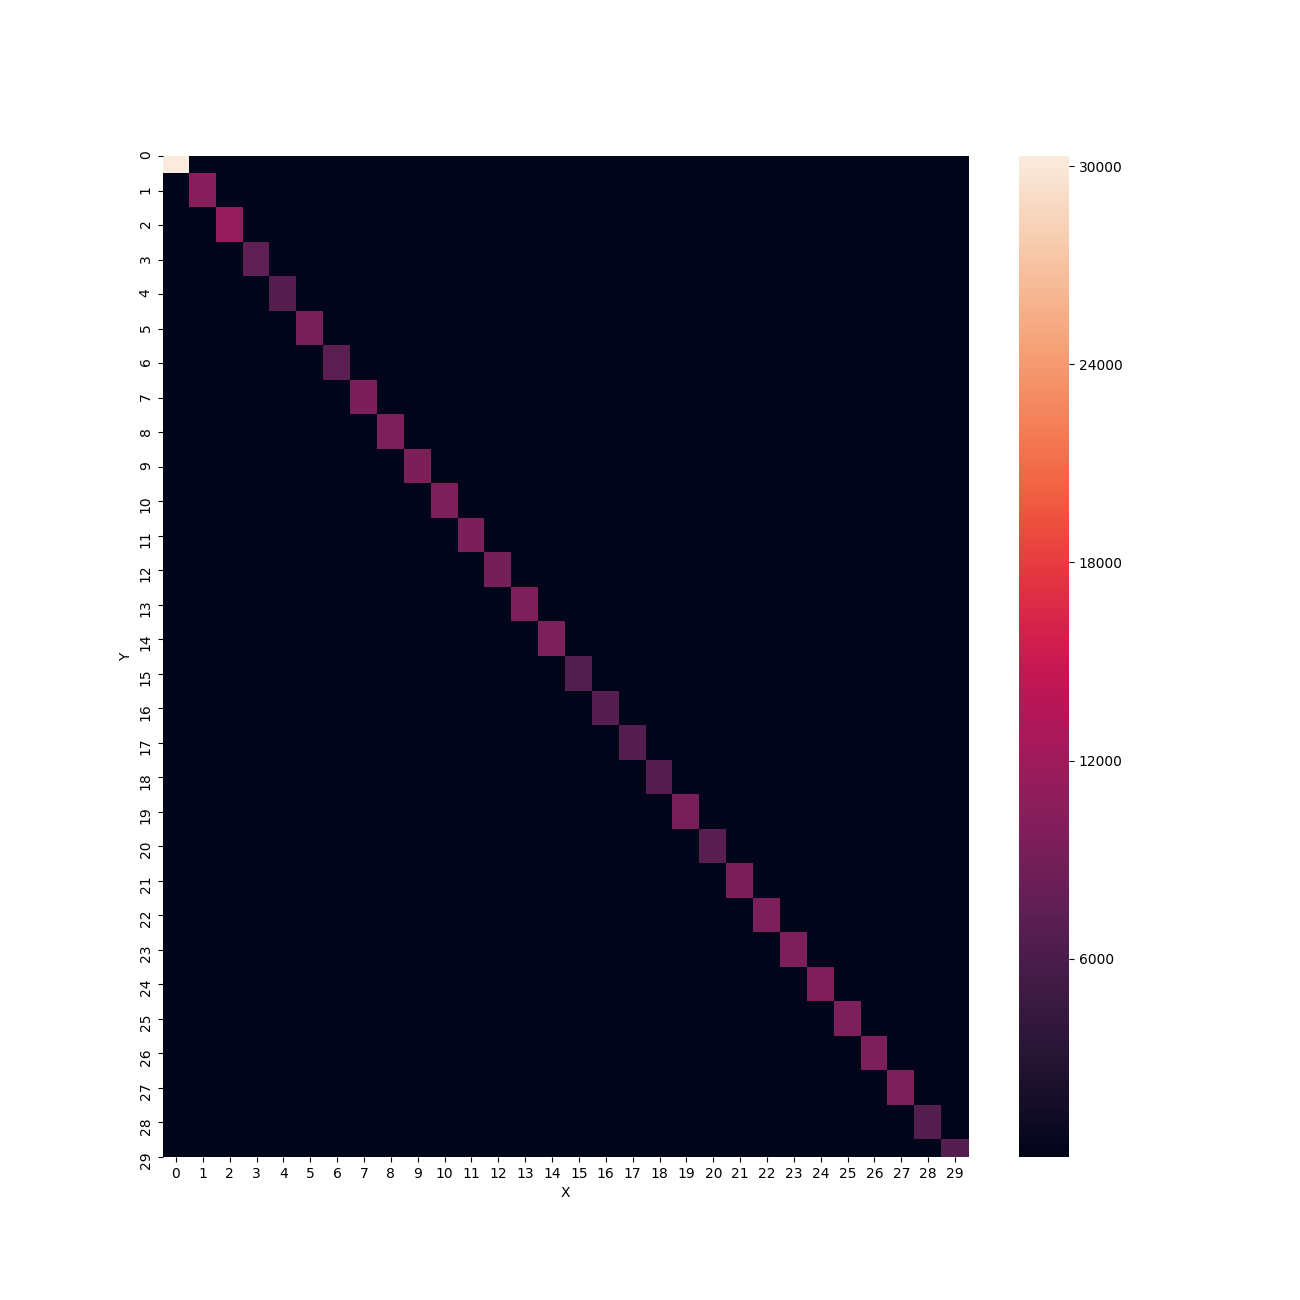
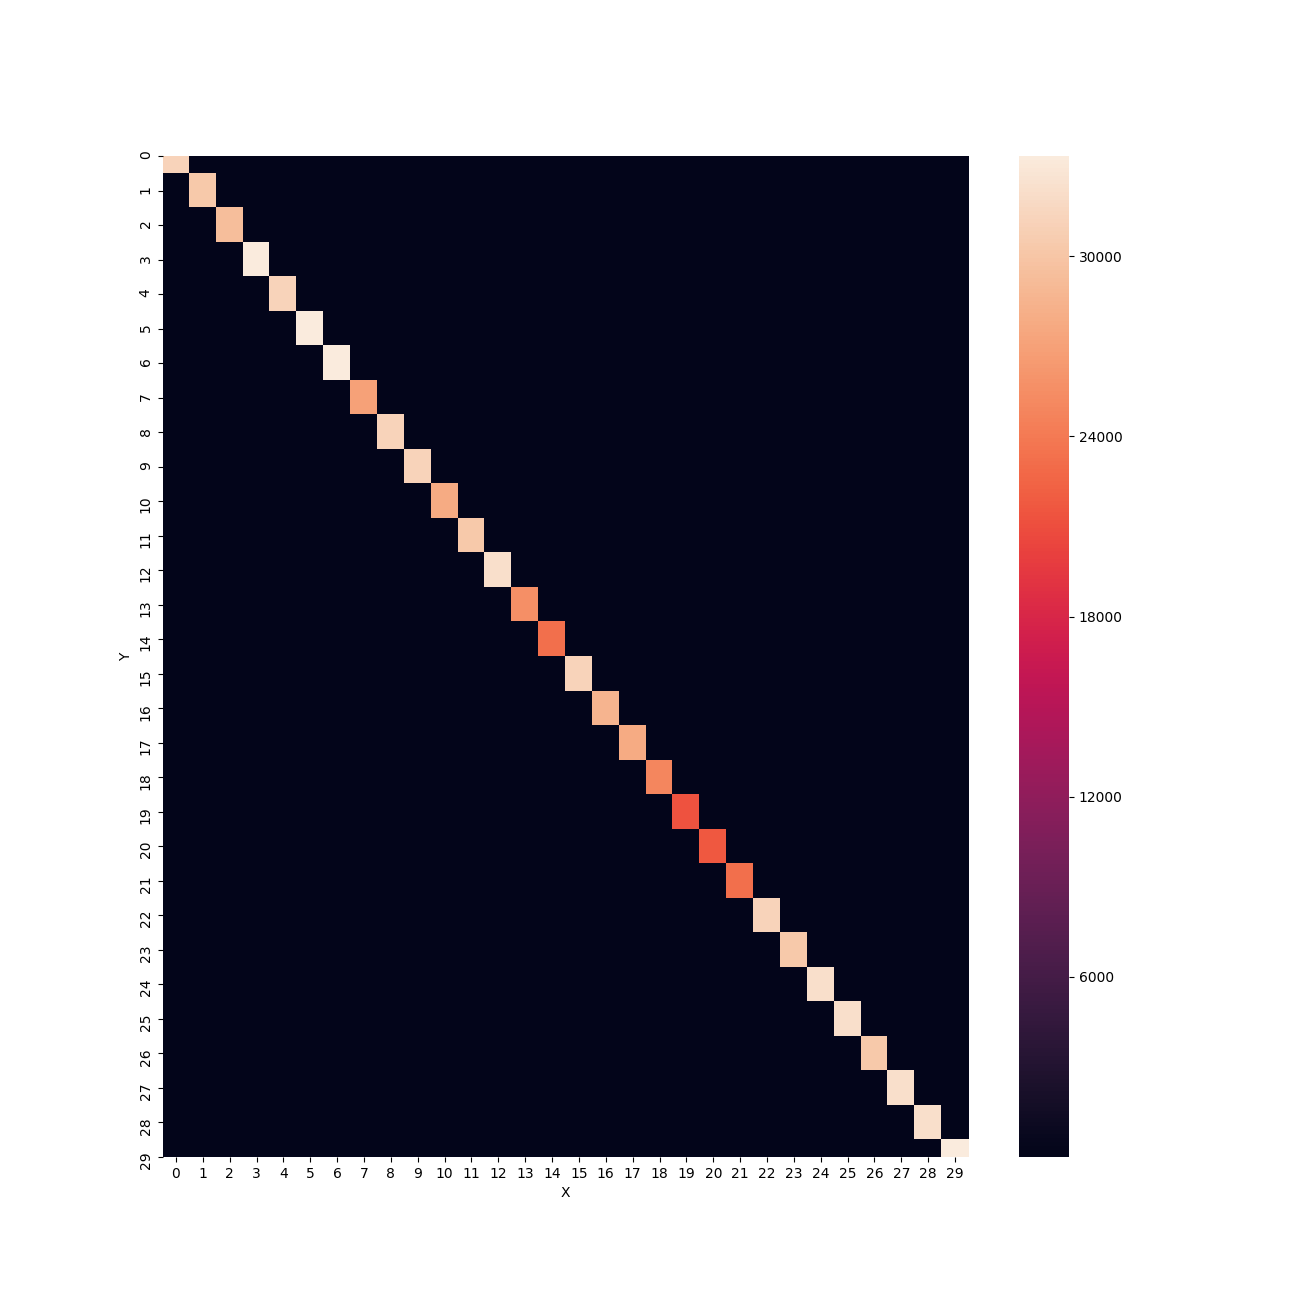
Updated plots and run files

diff --git a/Assignment2/2.1/plot.py b/Assignment2/2.1/plot.py
@@ -41,28 +41,40 @@ for d_size in [0,1,2]:
     data = pd.DataFrame({'X': X, 'Y': Y, 'Z': Z})
     data_pivoted = data.pivot("Y", "X", "Z")
     ax = sns.heatmap(data_pivoted)
-    plt.savefig("plot{}.png".format(d_size))
+    if d_size == 0:
+        plt.savefig("plot-64.png".format(d_size))
+    elif d_size == 1:
+        plt.savefig("plot-512.png".format(d_size))
+    else:
+        plt.savefig("plot-2.png".format(d_size))
 
-    fig = plt.figure(figsize=(13,13))
+    """
+    Code for plotting zeroed out central line
+    """
 
-    X, Y, Z = [], [], [];
-    a=0
-    for i in time_array:
-        b=0
-        for j in i:
-            X.append(a)
-            Y.append(b)
-            if a == b:
-                Z.append(0)
-            else:
-                bandwidth = data_size[d_size]/(j*1024*1024)
-                Z.append(bandwidth)
-            b = b+1
-        a = a+1
+    # fig = plt.figure(figsize=(13,13))
 
-    data = pd.DataFrame({'X': X, 'Y': Y, 'Z': Z})
-    data_pivoted = data.pivot("Y", "X", "Z")
-    ax = sns.heatmap(data_pivoted)
-    plt.savefig("plots/plot{}_zeroed.png".format(d_size))
+    # X, Y, Z = [], [], [];
+    # a=0
+    # for i in time_array:
+    #     b=0
+    #     for j in i:
+    #         X.append(a)
+    #         Y.append(b)
+    #         if a == b:
+    #             Z.append(0)
+    #         else:
+    #             bandwidth = data_size[d_size]/(j*1024*1024)
+    #             Z.append(bandwidth)
+    #         b = b+1
+    #     a = a+1
 
-print("Plots saved in plots folder")
+    # data = pd.DataFrame({'X': X, 'Y': Y, 'Z': Z})
+    # data_pivoted = data.pivot("Y", "X", "Z")
+    # ax = sns.heatmap(data_pivoted)
+    # if d_size == 0:
+    #     plt.savefig("plot-64_zeroed.png".format(d_size))
+    # elif d_size == 1:
+    #     plt.savefig("plot-512_zeroed.png".format(d_size))
+    # else:
+    #     plt.savefig("plot-2_zeroed.png".format(d_size))

diff --git a/Assignment2/2.1/src.c b/Assignment2/2.1/src.c
@@ -79,6 +79,7 @@ int main(int argc, char *argv[]){
             }
         }
 
+        if(i!=0){ MPI_Barrier(MPI_COMM_WORLD); }
         //generate the next list of pairs for same dist
         int pairs_new[limit][2];
         for(int l=0;l<limit;l++){
@@ -89,7 +90,7 @@ int main(int argc, char *argv[]){
         //pairs generated upto limit in pairs_new[][]
         for(int l=0;l<limit;l++){
             if(pairs_new[l][1] > 29){
-                continue;
+                break;
             }
             if(my_rank == pairs_new[l][0]){
                 start = MPI_Wtime();
@@ -114,6 +115,7 @@ int main(int argc, char *argv[]){
                 times[pairs_new[l][1]][pairs_new[l][0]] = end-start;
             }
         }
+        if(i!=0) {MPI_Barrier(MPI_COMM_WORLD);}
     }
         
     //Communication with self
